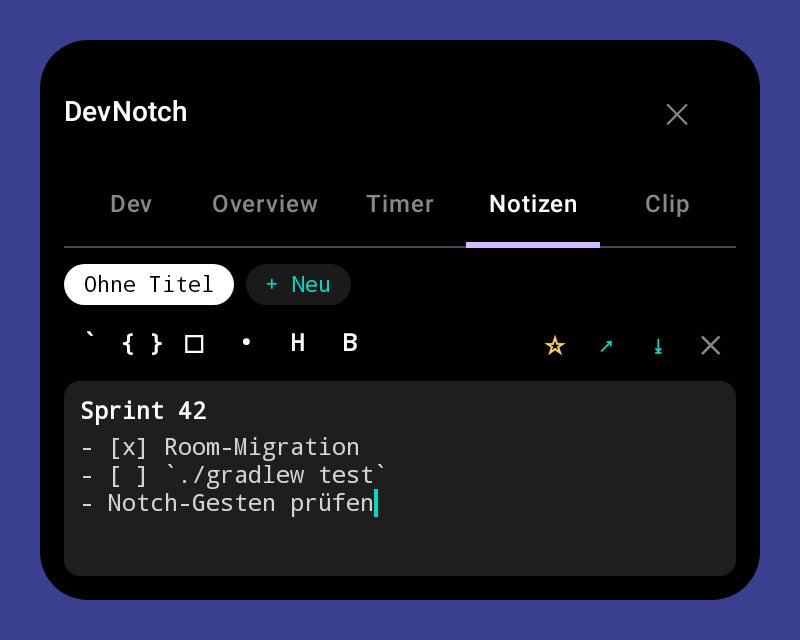
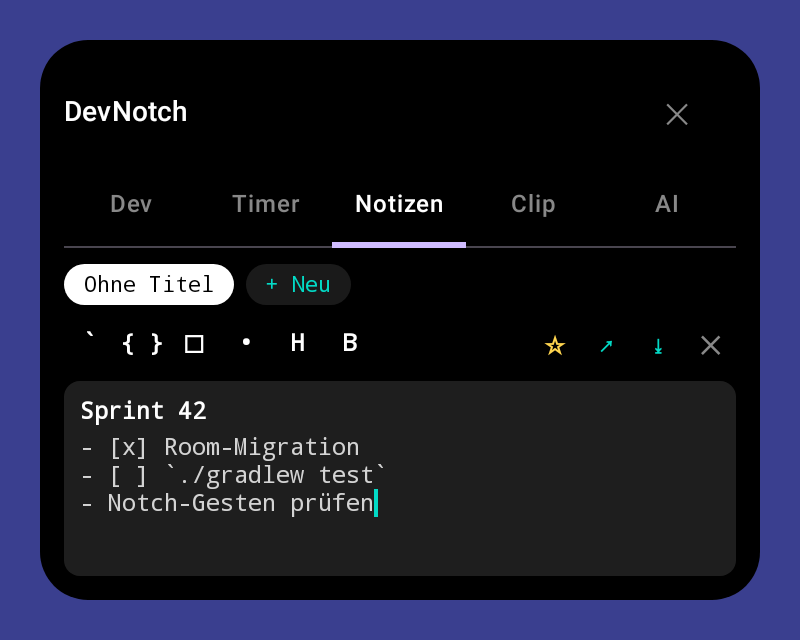
Tabs: Dev | Timer | Notizen | Clip | AI, AI stats replace Overview
- New "AI" tab with the AI usage widget and a compact status line (time,
  date, battery) replacing the former Overview tab
- Fix battery readout: BATTERY_PROPERTY_CAPACITY returns Integer.MIN_VALUE
  where unsupported (showed "-2147483648 %"); fall back to the
  ACTION_BATTERY_CHANGED level/scale and hide the battery if unknown
- Status line refreshes on minute boundaries instead of every second
- Screenshot of the AI tab, tests for the battery fallback

Claude-Session: https://claude.ai/code/session_01CkZP2MdX2dAqKGtm4Aiyej

diff --git a/app/src/main/java/com/frezzybuilds/devnotch/ui/NotchTabs.kt b/app/src/main/java/com/frezzybuilds/devnotch/ui/NotchTabs.kt
@@ -1,13 +1,13 @@
 package com.frezzybuilds.devnotch.ui
 
+import android.content.Context
+import android.content.Intent
+import android.content.IntentFilter
 import android.os.BatteryManager
 import androidx.compose.foundation.layout.Arrangement
-import com.frezzybuilds.devnotch.feature.aiusage.AiUsagePanel
-import androidx.compose.ui.Modifier
-import androidx.compose.foundation.layout.padding
-import androidx.compose.foundation.verticalScroll
-import androidx.compose.foundation.rememberScrollState
 import androidx.compose.foundation.layout.Column
+import androidx.compose.foundation.rememberScrollState
+import androidx.compose.foundation.verticalScroll
 import androidx.compose.material3.MaterialTheme
 import androidx.compose.material3.Text
 import androidx.compose.runtime.Composable
@@ -16,58 +16,63 @@ import androidx.compose.runtime.getValue
 import androidx.compose.runtime.mutableStateOf
 import androidx.compose.runtime.remember
 import androidx.compose.runtime.setValue
+import androidx.compose.ui.Modifier
 import androidx.compose.ui.graphics.Color
 import androidx.compose.ui.platform.LocalContext
 import androidx.compose.ui.unit.dp
-import androidx.lifecycle.compose.collectAsStateWithLifecycle
-import com.frezzybuilds.devnotch.ui.focus.FocusTimerViewModel
-import com.frezzybuilds.devnotch.ui.focus.formatMmSs
+import com.frezzybuilds.devnotch.feature.aiusage.AiUsagePanel
 import kotlinx.coroutines.delay
 import java.text.DateFormat
 import java.util.Date
 
+/**
+ * Tab „AI“: Nutzungs-Widget, darüber eine kompakte Statuszeile mit Uhrzeit, Datum und Akku
+ * (ersetzt den früheren Overview-Tab).
+ */
 @Composable
-fun OverviewTabContent(focusTimer: FocusTimerViewModel) {
+fun AiStatsTabContent() {
+    Column(
+        verticalArrangement = Arrangement.spacedBy(8.dp),
+        modifier = Modifier.verticalScroll(rememberScrollState())
+    ) {
+        StatusLine()
+        AiUsagePanel()
+    }
+}
+
+/** „14:05 · Mittwoch, 1. Oktober · 🔋 82 %“ – minütlich aktualisiert. */
+@Composable
+private fun StatusLine() {
     val context = LocalContext.current
-    val remaining by focusTimer.remainingTime.collectAsStateWithLifecycle()
-    val total by focusTimer.totalTime.collectAsStateWithLifecycle()
-    val isRunning by focusTimer.isRunning.collectAsStateWithLifecycle()
     var now by remember { mutableStateOf(Date()) }
     LaunchedEffect(Unit) {
         while (true) {
             now = Date()
-            delay(1_000)
+            // Bis zum nächsten Minutenwechsel schlafen statt sekündlich neu zu zeichnen.
+            delay(60_000 - now.time % 60_000)
         }
     }
-    val battery = remember(now.time / 60_000) {
-        context.getSystemService(BatteryManager::class.java)
-            .getIntProperty(BatteryManager.BATTERY_PROPERTY_CAPACITY)
-    }
+    val battery = remember(now) { batteryPercent(context) }
+    val time = DateFormat.getTimeInstance(DateFormat.SHORT).format(now)
+    val date = DateFormat.getDateInstance(DateFormat.LONG).format(now)
+    Text(
+        listOfNotNull(time, date, battery?.let { "🔋 $it %" }).joinToString(" · "),
+        color = Color.Gray,
+        style = MaterialTheme.typography.labelMedium,
+        maxLines = 1
+    )
+}
 
-    Column(
-        verticalArrangement = Arrangement.spacedBy(4.dp),
-        modifier = Modifier.verticalScroll(rememberScrollState())
-    ) {
-        Text(
-            DateFormat.getTimeInstance(DateFormat.SHORT).format(now),
-            color = Color.White,
-            style = MaterialTheme.typography.displaySmall
-        )
-        Text(
-            DateFormat.getDateInstance(DateFormat.FULL).format(now),
-            color = Color.Gray,
-            style = MaterialTheme.typography.bodySmall
-        )
-        Text("🔋 $battery %", color = Color.White, style = MaterialTheme.typography.bodyMedium)
-        Text(
-            when {
-                isRunning -> "⏱ Timer läuft – ${formatMmSs(remaining)}"
-                remaining != total -> "⏱ Pausiert – ${formatMmSs(remaining)}"
-                else -> "⏱ Kein Timer aktiv"
-            },
-            color = Color.White,
-            style = MaterialTheme.typography.bodyMedium
-        )
-        AiUsagePanel(Modifier.padding(top = 4.dp))
-    }
+/**
+ * Akkustand in Prozent oder null. BATTERY_PROPERTY_CAPACITY liefert auf manchen Geräten
+ * Integer.MIN_VALUE („nicht unterstützt“) – dann den Batterie-Broadcast (level/scale) lesen.
+ */
+fun batteryPercent(context: Context): Int? {
+    val capacity = context.getSystemService(BatteryManager::class.java)
+        ?.getIntProperty(BatteryManager.BATTERY_PROPERTY_CAPACITY)
+    if (capacity != null && capacity in 0..100) return capacity
+    val status = context.registerReceiver(null, IntentFilter(Intent.ACTION_BATTERY_CHANGED)) ?: return null
+    val level = status.getIntExtra(BatteryManager.EXTRA_LEVEL, -1)
+    val scale = status.getIntExtra(BatteryManager.EXTRA_SCALE, -1)
+    return if (level >= 0 && scale > 0) level * 100 / scale else null
 }

diff --git a/app/src/test/java/com/frezzybuilds/devnotch/ui/BatteryPercentTest.kt b/app/src/test/java/com/frezzybuilds/devnotch/ui/BatteryPercentTest.kt
@@ -1,0 +1,32 @@
+package com.frezzybuilds.devnotch.ui
+
+import android.app.Application
+import android.content.Intent
+import android.os.BatteryManager
+import androidx.test.core.app.ApplicationProvider
+import org.junit.Assert.assertEquals
+import org.junit.Assert.assertNull
+import org.junit.Test
+import org.junit.runner.RunWith
+import org.robolectric.RobolectricTestRunner
+
+@RunWith(RobolectricTestRunner::class)
+class BatteryPercentTest {
+
+    private val app: Application = ApplicationProvider.getApplicationContext()
+
+    @Test
+    fun `unsupported capacity falls back to the battery broadcast`() {
+        app.sendStickyBroadcast(
+            Intent(Intent.ACTION_BATTERY_CHANGED)
+                .putExtra(BatteryManager.EXTRA_LEVEL, 41)
+                .putExtra(BatteryManager.EXTRA_SCALE, 50)
+        )
+        assertEquals(82, batteryPercent(app))
+    }
+
+    @Test
+    fun `no usable value means no battery text instead of a garbage number`() {
+        assertNull(batteryPercent(app))
+    }
+}

diff --git a/app/src/test/java/com/frezzybuilds/devnotch/ui/SplitDrawerScreenshotTest.kt b/app/src/test/java/com/frezzybuilds/devnotch/ui/SplitDrawerScreenshotTest.kt
@@ -131,6 +131,14 @@ class SplitDrawerScreenshotTest {
         view.draw(Canvas(image))
         val out = File("build/screenshots/phone_tabs.png").apply { parentFile?.mkdirs() }
         out.outputStream().use { image.compress(Bitmap.CompressFormat.PNG, 100, it) }
+
+        // Tab „AI“: Statuszeile + Widget (ohne Keys: Einrichtungshinweis).
+        compose.onNodeWithText("AI").performClick()
+        compose.waitForIdle()
+        compose.onNodeWithText("AI Usage").assertExists()
+        val aiImage = Bitmap.createBitmap(view.width, view.height, Bitmap.Config.ARGB_8888)
+        view.draw(Canvas(aiImage))
+        File("build/screenshots/phone_tab_ai.png").outputStream().use { aiImage.compress(Bitmap.CompressFormat.PNG, 100, it) }
     }
 
     /** AI-Widget (68 % des Limits, mit Fehler) und Widget über dem Limit. */

diff --git a/app/src/main/java/com/frezzybuilds/devnotch/ui/NotchContainer.kt b/app/src/main/java/com/frezzybuilds/devnotch/ui/NotchContainer.kt
@@ -93,10 +93,10 @@ private val GestureThreshold = 40.dp
 
 private enum class NotchTab(val title: String) {
     DEV("Dev"),
-    OVERVIEW("Overview"),
     TIMER("Timer"),
     NOTES("Notizen"),
-    CLIP("Clip")
+    CLIP("Clip"),
+    AI("AI")
 }
 
 /** Eine Feder für Größe und Eckenradius, damit beides synchron „nachfedert“. */
@@ -351,7 +351,7 @@ private fun Dashboard(
                 .padding(top = 8.dp)
         ) {
             when (selectedTab) {
-                NotchTab.OVERVIEW -> OverviewTabContent(focusTimer)
+                NotchTab.AI -> AiStatsTabContent()
                 NotchTab.TIMER -> FocusTimerTab(focusTimer)
                 NotchTab.CLIP -> ClipboardContent()
                 NotchTab.DEV -> DevTabContent()
